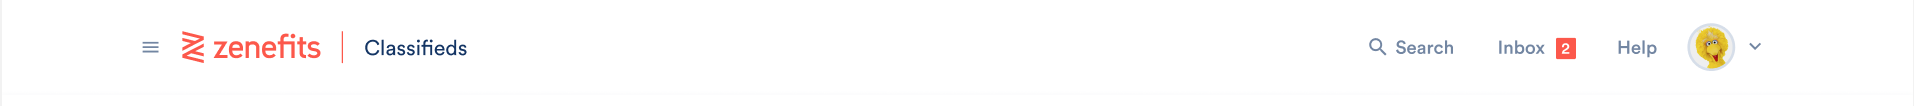
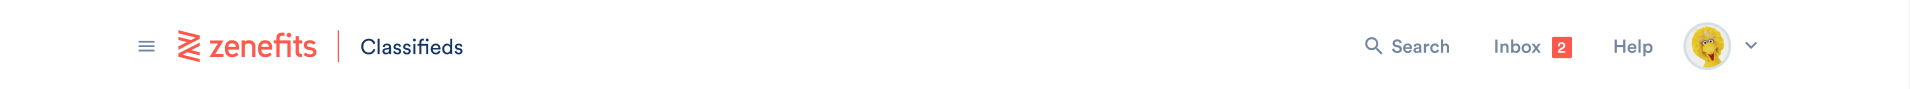
finished item description and nearly finished item card

Changed region(s): [[0.7105, 0.2247, 0.9267, 0.7865], [0.0618, 0.2921, 0.2471, 0.6966]]

diff --git a/src/App/Item_Description/ItemDescription.js b/src/App/Item_Description/ItemDescription.js
@@ -1,0 +1,79 @@
+import React from 'react';
+import image from '../image.png';
+import './ItemDescription.css';
+import emailImage from './email.png';
+import payPalImage from './PayPal.png';
+import slackImage from './slack.png';
+import venmoImage from './Venmo.png'
+
+const ItemDescription = (props) => {
+    console.log(props.item);
+    return (
+        <div className = 'Item-Description-Container'>
+            <div className = 'Item-Description-Left-Container'>
+                <div className = 'Item-Description-Image'><img src = {image}/></div>
+                <p>Have a question about the product?</p>
+                <div className = 'Item-Description-Question-Input'>
+                    <div className = 'Item-Description-Ask-Seller'>Ask the Seller</div>
+                </div>
+                <div className = 'Item-Description-Q-And-A'>
+                    <div className = 'Item-Description-Q-A-Text-Container'>
+                        <h1>Questions and answers</h1>
+                        <div className = 'Item-Description-Q-and-A-Single-Question'>
+                            <div className = 'Item-Description-Q-and-A-Spacer'>
+                                <p>Question:</p>
+                            </div>
+                            <p>Do the hands glow in the dark?</p>
+                        </div>
+                        <div className = 'Item-Description-Q-and-A-Single-Question'>
+                        <div className = 'Item-Description-Q-and-A-Spacer'>
+                                <p>Answer:</p>
+                            </div>
+                            <p>No</p>
+                        </div>
+                        <div className = 'Item-Description-Q-and-A-Single-Question'>
+                        <div className = 'Item-Description-Q-and-A-Spacer'>
+                                <p>Question:</p>
+                            </div>
+                            <p>What is the size of the watch face?</p>
+                        </div>
+                        <div className = 'Item-Description-Q-and-A-Single-Question'>
+                        <div className = 'Item-Description-Q-and-A-Spacer'>
+                                <p>Answer:</p>
+                            </div>
+                            <p>The dial diameter of the watch is 41mm</p>
+                        </div>
+                    </div>
+                </div>
+            </div>
+            <div>
+                <p className = 'Item-Description-Small-Text'>{props.item.category}</p>
+                <p className = 'Item-Description-Item-Title'>{props.item.title}</p>
+                <div className = 'Item-Description-Seller-Info'>
+                    <p className = 'Item-Description-Small-Text'>{props.item.owner} -</p>
+                    <p className = 'Item-Description-Small-Text'>{props.item.city} -</p>
+                    <p className = 'Item-Description-Small-Text'>{props.item.date}</p>
+                </div>
+                <div className = 'Item-Description-Price'>${props.item.price}</div>
+                <div className = 'Item-Description-Header'>Description</div>
+                <p className = 'Item-Description-Description'>{props.item.description}</p>
+                <div className = 'Item-Description-Header'>Payment methods</div>
+                <div className = 'Item-Description-Images-Container'>
+                    <div className = 'Item-Description-Left-Image'>
+                        <img src = {venmoImage}/>
+                    </div>
+                    <img src = {payPalImage}/>
+                </div>
+                <div className = 'Item-Description-Header'>Contact the seller</div>
+                <div className = 'Item-Description-Images-Container'>
+                    <div className = 'Item-Description-Left-Image'>
+                        <img src = {slackImage}/>
+                    </div>
+                    <img src = {emailImage}/>
+                </div>
+            </div>
+        </div>
+    )
+}
+
+export default ItemDescription;

diff --git a/src/App/Item_Description/ItemDescription.css b/src/App/Item_Description/ItemDescription.css
@@ -1,0 +1,119 @@
+.Item-Description-Container {
+    display: flex;
+    position: absolute;
+    width: 70%;
+    min-width: 1000px;
+    left: 107px;
+    top: 31px;
+    
+    background: #FFFFFF;
+    border: 1px solid #D6DEE9;
+    border-radius: 3px;
+}
+
+.Item-Description-Left-Container {
+    margin: 10px 20px 0 10px;
+}
+
+.Item-Description-Image > img {
+    width: 600px;
+    height: auto;
+}
+
+.Item-Description-Seller-Info {
+    display: flex;
+}
+
+.Item-Description-Small-Text {
+    font-family: 'Maven Pro';
+    font-style: normal;
+    font-weight: normal;
+    font-size: 18px;
+    line-height: 21px;
+    color: #636B71;
+}
+
+.Item-Description-Item-Title {
+    font-family: 'Maven Pro';
+    font-style: normal;
+    font-weight: normal;
+    font-size: 24px;
+    line-height: 34px;
+}
+
+.Item-Description-Price {
+    font-family: 'Maven Pro';
+    font-style: normal;
+    font-weight: 500;
+    font-size: 32px;
+    line-height: 34px;
+}
+
+.Item-Description-Header {
+    font-family: 'Maven Pro';
+    font-style: normal;
+    font-weight: 500;
+    font-size: 18px;
+    line-height: 34px;
+}
+
+.Item-Description-Images-Container {
+    display: flex;
+}
+
+.Item-Description-Left-Image {
+    width: 60px;
+}
+
+.Item-Description-Question-Input {
+    height: 58px;
+    width: 100%;
+    border: 1px solid #BBBBBB
+}
+
+.Item-Description-Ask-Seller {
+    width: 130px;
+    height: 32px;
+    background-color: #F25341;
+    border-radius: 1px;
+    box-shadow: 0px 0px 0px rbga(18,52,102,0.1);
+    margin: 12px 5px auto auto;
+    text-align: center;
+    line-height: 32px;
+    font-family: 'Circular Std';
+    font-size: 12px;
+    color: white;
+}
+
+.Item-Description-Q-And-A {
+    width: 100%;
+    height: 300px;
+    background: #FBFBFB;
+    margin: 20px 0 10px 0;
+}
+
+.Item-Description-Q-A-Text-Container {
+    padding: 20px 0 0 17px;
+}
+
+.Item-Description-Q-A-Text-Container > h1{
+    font-family: 'Maven Pro';
+    font-style: normal;
+    font-weight: 500;
+    font-size: 18px;
+    line-height: 16px;
+}
+
+.Item-Description-Q-and-A-Single-Question {
+    display: flex;
+}
+
+.Item-Description-Q-and-A-Single-Question p {
+    font-family: Circular Std;
+    font-size: 14px;
+    line-height: 21px;
+}
+
+.Item-Description-Q-and-A-Spacer {
+    width: 90px;
+}

diff --git a/src/App/App.js b/src/App/App.js
@@ -4,6 +4,7 @@ import Browse from './Browse/Browse.js';
 import MyActivity from './My_Activity/MyActivity.js';
 import AddItem from './Add_Item/AddItem.js';
 import data from '../data.js';
+import ItemDescription from './Item_Description/ItemDescription.js';
 import './App.css';
 
 class App extends Component {
@@ -15,20 +16,21 @@ class App extends Component {
       items: data,
       addingItem: false,
     }
-    this.togglePages = this.togglePages.bind(this);
+    this.goToBrowse = this.goToBrowse.bind(this);
+    this.goToMyActivity = this.goToMyActivity.bind(this);
     this.addNewItem = this.addNewItem.bind(this);
     this.toggleSellItem = this.toggleSellItem.bind(this);
   }
-  togglePages() {
-    if(this.state.page === 'Browse') {
-      this.setState({
-        page: 'MyActivity'
-      })
-    } else {
-      this.setState({
-        page: 'Browse'
-      })
-    }
+  goToBrowse() {
+    this.setState({
+      page: 'Browse'
+    })
+  }
+
+  goToMyActivity() {
+    this.setState({
+      page: 'MyActivity'
+    })
   }
 
   addNewItem(item) {
@@ -47,11 +49,12 @@ class App extends Component {
   render() {
     return (
       <div className="App">
-        <Header togglePages = {this.togglePages}/>
+        <Header goToBrowse = {this.goToBrowse} goToMyActivity = {this.goToMyActivity} currentPage = {this.state.page}/>
         <button onClick = {this.toggleSellItem}>Sell Something</button>
         {this.state.addingItem ? <AddItem addNewItem = {this.addNewItem}/> : null}
         {this.state.page === 'Browse' ? <Browse items = {this.state.items}/> : null}
         {this.state.page === 'MyActivity' ? <MyActivity items = {this.state.items.filter(item => item.owner === this.state.user)}/> : null}
+        <ItemDescription item = {this.state.items[0]}/>
       </div>
     );
   }

diff --git a/src/App/Header/NavBar/NavBar.js b/src/App/Header/NavBar/NavBar.js
@@ -8,15 +8,16 @@ class NavBar extends Component {
         }
     }
     render() {
+      console.log('current page prop: ', this.props.currentPage);
         return (
           <div className='NavBar'>
             <div className='TopRow'>
-              <div className = 'BrowseButton' onClick = {this.props.togglePages}>Browse</div>
-              <div className = 'ActivityButton' onClick = {this.props.togglePages}>Activity</div>
+              <div className = 'BrowseButton' onClick = {this.props.goToBrowse}>Browse</div>
+              <div className = 'ActivityButton' onClick = {this.props.goToMyActivity}>Activity</div>
             </div>
             <div className='BottomRow'>
-              <div className = 'BrowseButtonBlock'></div>
-              <div className = 'ActivityButtonBlock'></div>
+              { this.props.currentPage === 'Browse' ? <div className = 'BrowseButtonBlock'></div> : null }
+              { this.props.currentPage === 'MyActivity' ? <div className = 'ActivityButtonBlock'></div> : null }
             </div>
           </div>
         );

diff --git a/src/data.js b/src/data.js
@@ -2,7 +2,6 @@ const data = [
     {
         title: 'Mens Unique Leather Band Dress Wrist Watch',
         description: 'Top of the line watch that you should buy for a lot right now',
-        photos: ['url'],
         condition: 'great',
         price: 80,
         city: 'San Francisco',
@@ -15,7 +14,6 @@ const data = [
     {
         title: 'My old left sock',
         description: 'My old sock that you probably dont want to buy',
-        photos: ['url'],
         condition: 'poor',
         price: 2000,
         city: 'Tempe',
@@ -28,7 +26,6 @@ const data = [
     {
         title: 'Stuffed animal',
         description: 'My baby hated it, maybe yours won\'t',
-        photos: ['url'],
         condition: 'new',
         price: 2000,
         city: 'San Francisco',

diff --git a/src/App/Header/NavBar/NavBar.css b/src/App/Header/NavBar/NavBar.css
@@ -27,16 +27,24 @@
     line-height: 16px;
 }
 
+.BrowseButton:hover {
+    cursor: pointer;
+}
+
+.ActivityButton:hover {
+    cursor: pointer;
+}
+
 .BrowseButtonBlock{
     height: 4px;
     width: 58px;
     background: #FF5745;
-    margin-left: 132px;
+    margin-left: 127px;
 }
 
 .ActivityButtonBlock{
     height: 4px;
     width: 58px;
     background: #FF5745;
-    margin-left: 20px;
+    margin-left: 207px;
 }

diff --git a/src/App/Header/Header.js b/src/App/Header/Header.js
@@ -13,7 +13,7 @@ class Header extends Component {
         return (
           <div>
             <img className = 'HeaderImage' src = {headerImage}></img>
-            <ReturnNav togglePages = {this.props.togglePages}/>
+            <ReturnNav goToBrowse = {this.props.goToBrowse} goToMyActivity = {this.props.goToMyActivity} currentPage = {this.props.currentPage}/>
           </div>
         );
     }

diff --git a/src/App/Item_Card/ItemCard.js b/src/App/Item_Card/ItemCard.js
@@ -2,7 +2,6 @@ import React, {Component} from 'react';
 import './ItemCard.css'
 
 const ItemCard = (props) => {
-    console.log(props)
     return (
         <div>{props.item.title}</div>
     )

diff --git a/src/App/Header/Header.css b/src/App/Header/Header.css
@@ -1,5 +1,5 @@
 
 .HeaderImage {
-    width: 100%;
-    height: auto;
+    width: 1200px;
+    margin: 0 auto;
 }

diff --git a/src/App/App.css b/src/App/App.css
@@ -1,3 +1,3 @@
 .App {
-  background: #F2F2F2;
+  background: #FFFFFF;
 }
